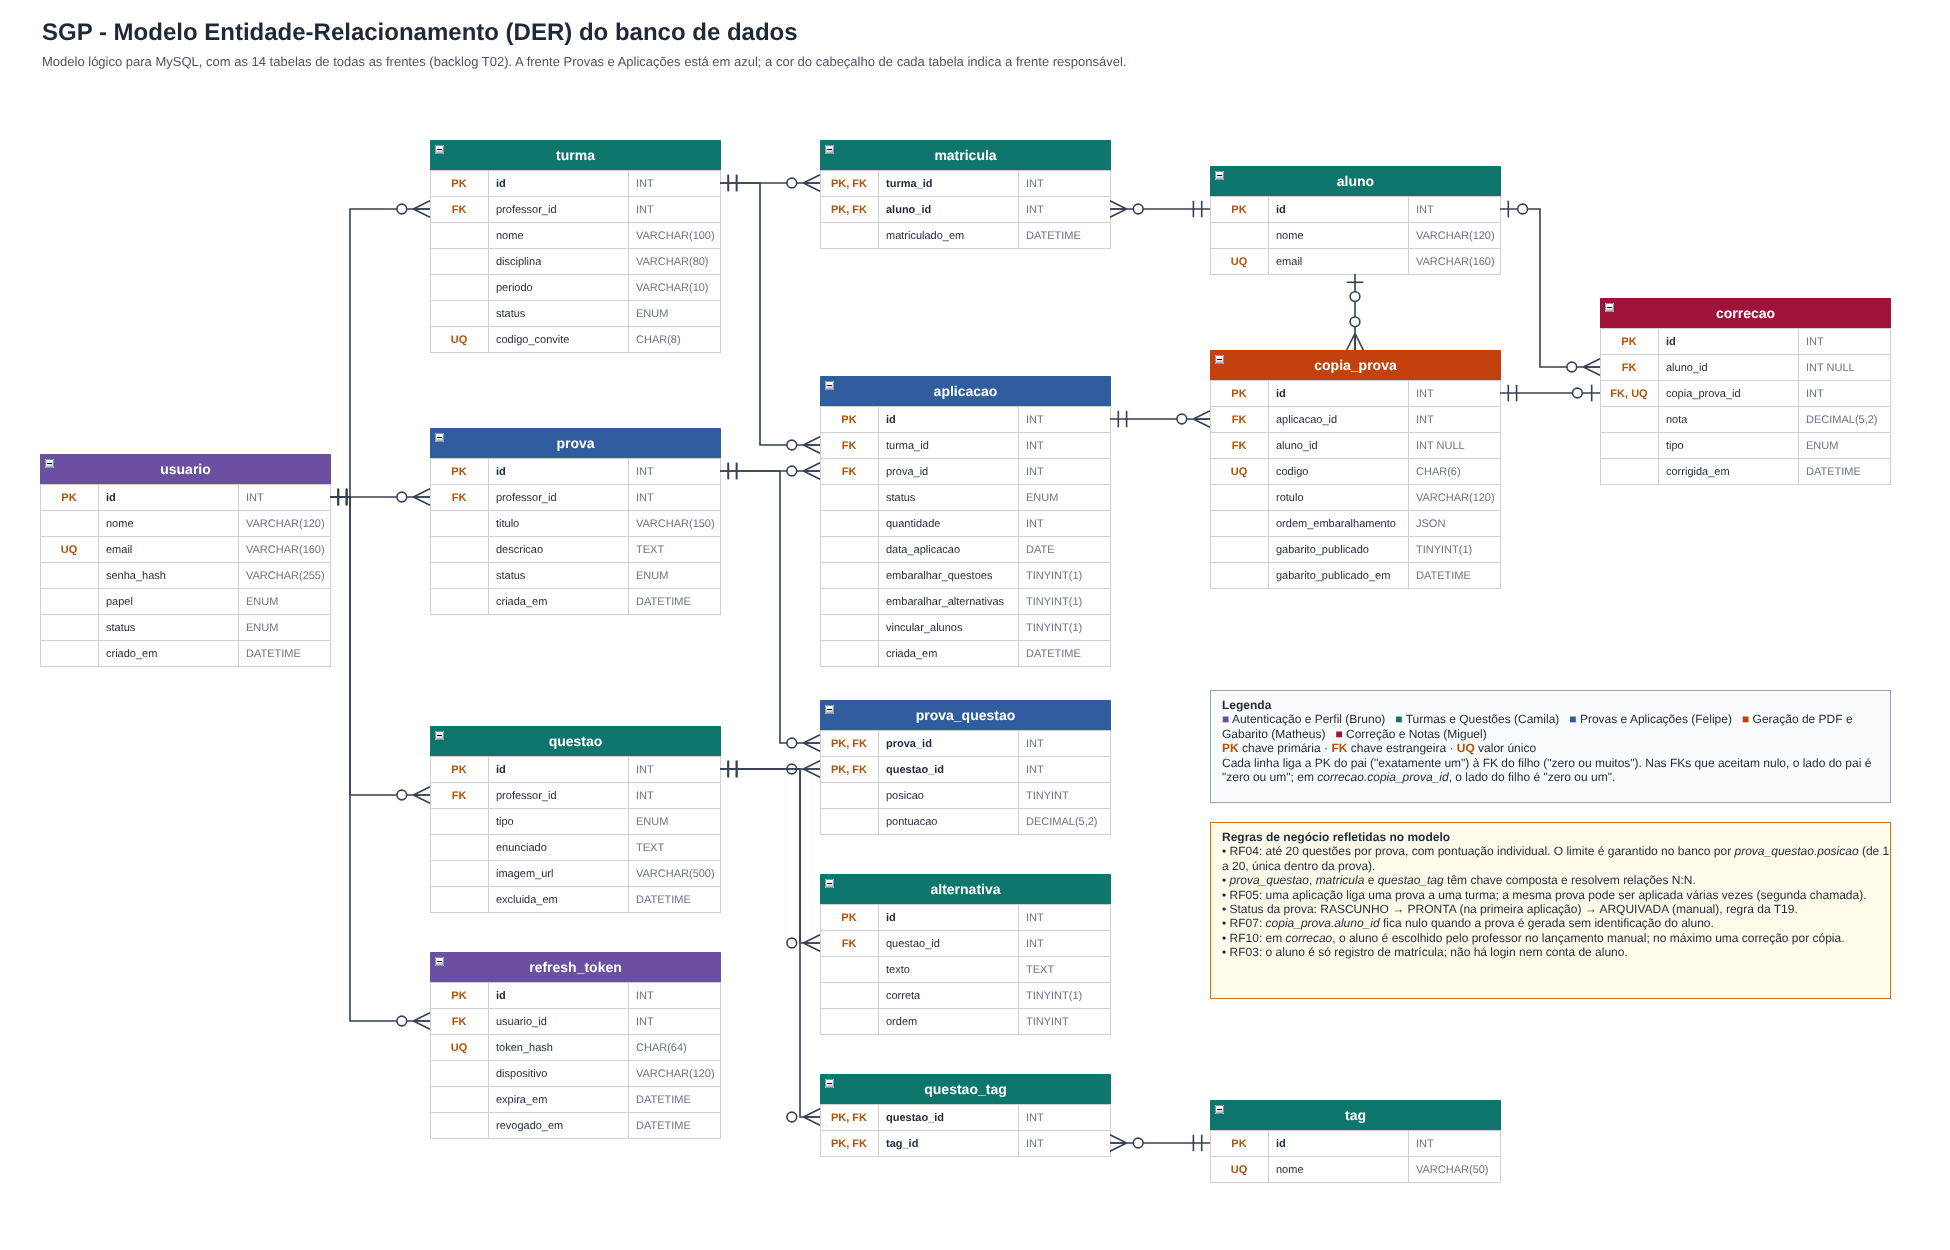
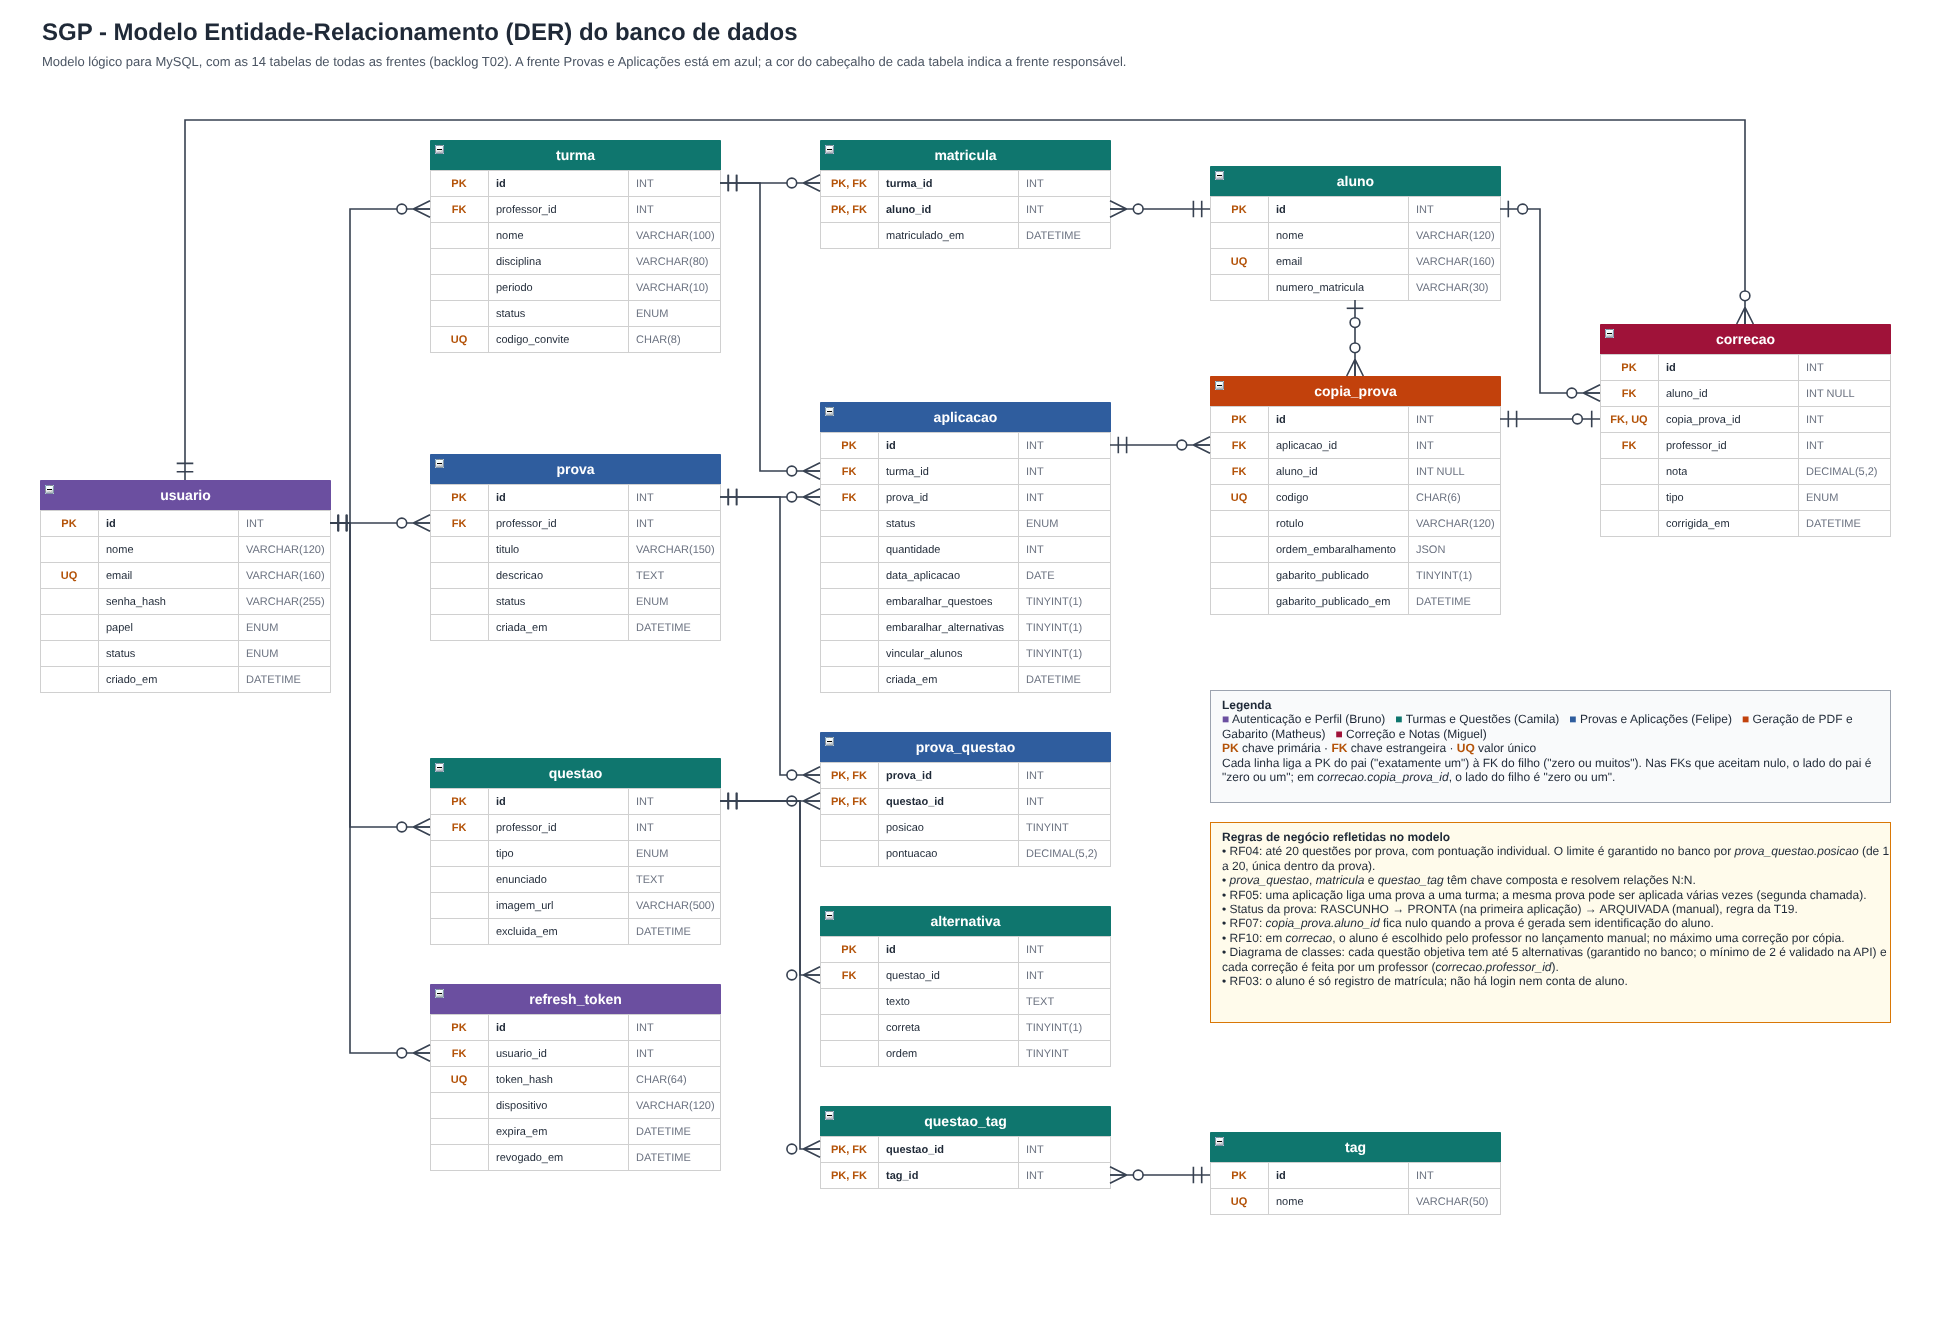
docs: ajusta DER ao diagrama de classes (professor na correcao, max. 5 alternativas, numero de matricula do aluno)

diff --git a/docs/modelo-dados/dicionario-dados.md b/docs/modelo-dados/dicionario-dados.md
@@ -52,6 +52,7 @@ Registro do aluno informado pelo professor (nome e e-mail). Não gera conta de a
 | id | INT UNSIGNED (PK) | Identificador único do registro |
 | nome | VARCHAR(120) | Nome do aluno |
 | email | VARCHAR(160) (UQ) | E-mail do aluno; único |
+| numero_matricula | VARCHAR(30) (aceita nulo) | Número de matrícula acadêmica, quando informado (atributo matricula do diagrama de classes) |
 
 ### matricula
 
@@ -96,7 +97,7 @@ Associa tags a questões. Resolve a relação N:N entre questão e tag.
 
 ### alternativa
 
-Alternativas das questões objetivas. Questões discursivas não têm alternativas.
+Alternativas das questões objetivas, no máximo 5 por questão (o mínimo de 2 é validado na API). Questões discursivas não têm alternativas.
 
 | Campo | Tipo | Descrição |
 |---|---|---|
@@ -104,7 +105,7 @@ Alternativas das questões objetivas. Questões discursivas não têm alternativ
 | questao_id | INT UNSIGNED (FK → questao.id) | Questão a que a alternativa pertence |
 | texto | TEXT | Texto da alternativa |
 | correta | TINYINT(1) | 1 se for a alternativa correta |
-| ordem | TINYINT UNSIGNED | Posição original da alternativa na questão (0 = primeira) |
+| ordem | TINYINT UNSIGNED | Posição original da alternativa, de 0 a 4 (no máximo 5 por questão); única dentro da questão |
 
 ### prova
 
@@ -171,6 +172,7 @@ Correção de uma cópia: nota calculada automaticamente (RF09) ou lançada manu
 | id | INT UNSIGNED (PK) | Identificador único do registro |
 | aluno_id | INT UNSIGNED (FK → aluno.id, aceita nulo) | Aluno dono da nota; nos lançamentos manuais é o aluno escolhido pelo professor |
 | copia_prova_id | INT UNSIGNED (FK → copia_prova.id, UQ) | Cópia corrigida; no máximo uma correção por cópia |
+| professor_id | INT UNSIGNED (FK → usuario.id) | Professor que corrigiu ou lançou a nota |
 | nota | DECIMAL(5,2) | Soma da pontuação das questões corretas |
 | tipo | ENUM('AUTOMATICA','MANUAL') | Como a nota foi obtida |
 | corrigida_em | DATETIME | Data e hora da correção ou do lançamento |
